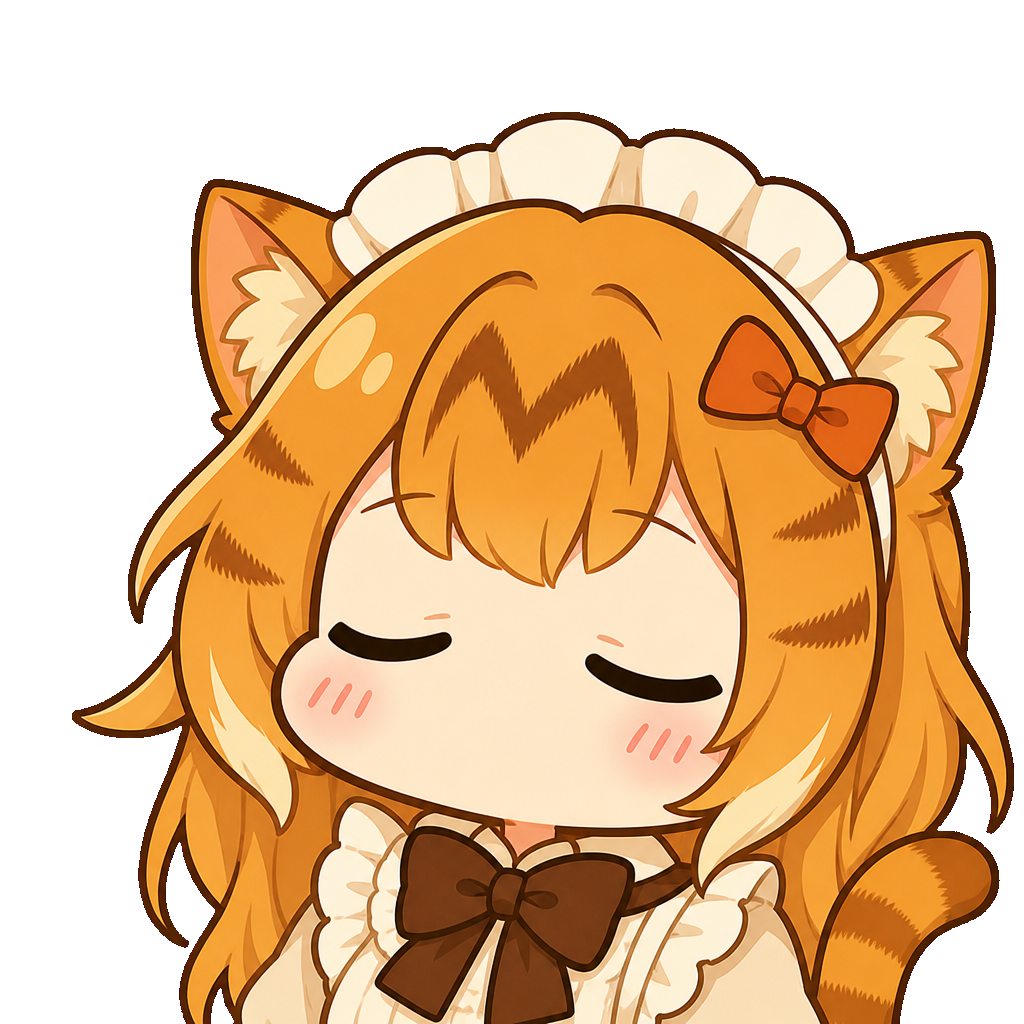
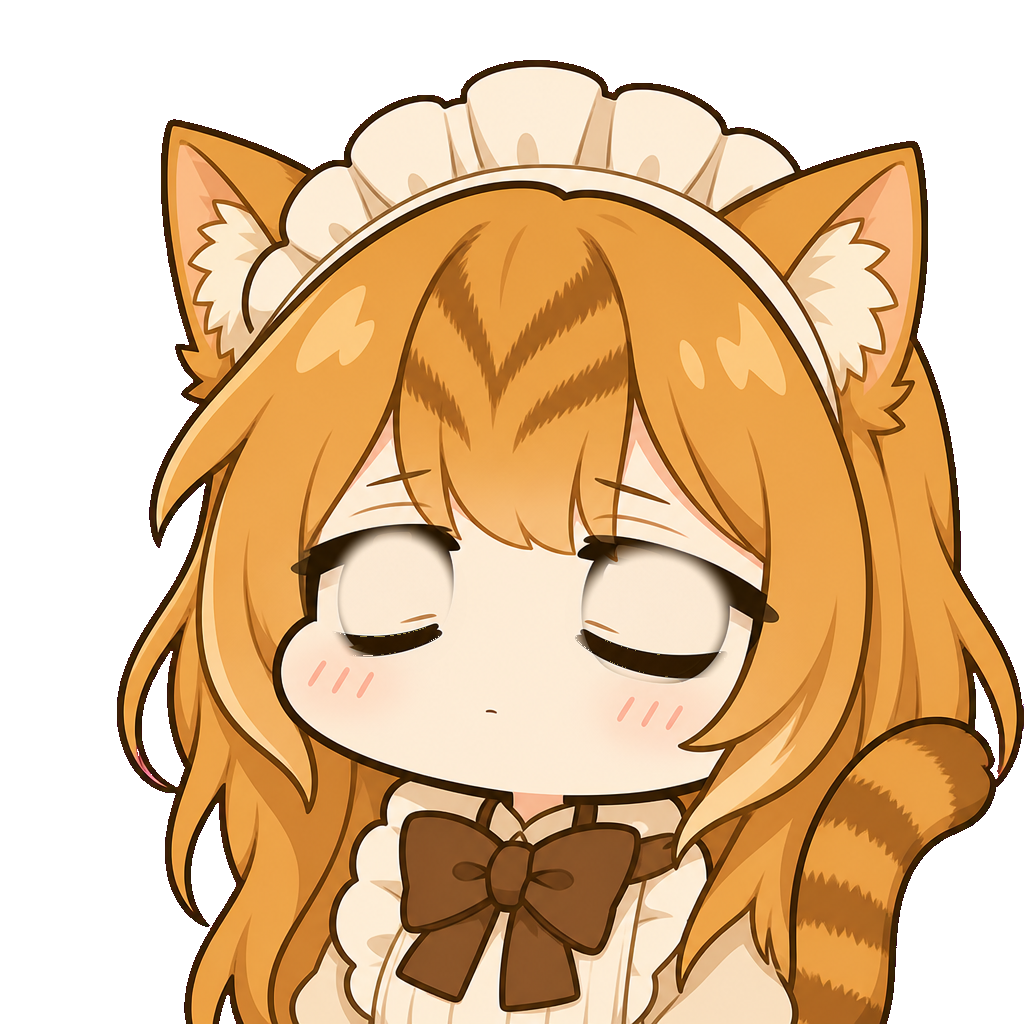
Archive the moe sprites as unused v1 art and make idle blinks use a matching closed-eye frame.
Keep the current lazy faces as the only runtime set, and let blinks, auto poses, and multi-clicks carry emotion lines instead of swapping to a different pose sheet.

diff --git a/web/widget.js b/web/widget.js
@@ -1,5 +1,5 @@
 const STORAGE_KEY = "chestnut-pet";
-const ASSET_VER = "20260827e";
+const ASSET_VER = "20260829a";
 const BUBBLE_STYLE = {
   A: "chestnut-pet-label",
   B: "chestnut-pet-amount",
@@ -12,13 +12,15 @@ const BUBBLE_SVG =
   '<ellipse class="chestnut-b1" cx="352" cy="561" rx="37.5" ry="26" fill="#fff7ea" stroke="#4a2a16" stroke-width="18"/>' +
   '<ellipse class="chestnut-b2" cx="442" cy="646" rx="24.5" ry="18" fill="#fff7ea" stroke="#4a2a16" stroke-width="18"/>' +
   "</svg>";
-const CLICKS_TO_ANGRY = 5;
-const ANGRY_MS = 3000;
+const CLICKS_TO_BURST = 5;
+const CLICK_WINDOW_MS = 1200;
+const BURST_MS = 5000;
 const SHY_MS = 8000;
-const LONELY_MS = 120000;
 const BUBBLE_MS = 5000;
-const CUTE_MIN_MS = 25000;
-const CUTE_VAR_MS = 35000;
+const BLINK_GAPS = [2000, 4000];
+const POSE_MIN_MS = 10000;
+const POSE_VAR_MS = 10000;
+const POSE_HOLD_MS = 5000;
 
 const EXPR = {
   idle: "idle.png",
@@ -41,7 +43,39 @@ const EXPR = {
   thumbsup: "thumbsup.png",
 };
 
-const CUTE_POOL = ["ok", "sad", "quiet", "cheer", "fatfish", "mock", "what", "scared", "greet", "thumbsup"];
+const EMOTION_POOL = [
+  "angry",
+  "shy",
+  "disappointed",
+  "exhausted",
+  "ok",
+  "sad",
+  "quiet",
+  "cheer",
+  "fatfish",
+  "mock",
+  "what",
+  "scared",
+  "greet",
+  "thumbsup",
+];
+
+const EMOTION_LINES = {
+  angry: ["点这么急，本猫要炸毛了。", "再点，尾巴抽你。", "哼，本座还没睡醒。"],
+  shy: ["看够了吗……耳朵有点热。", "别盯着本座的脸。", "被点害羞了，本猫先躲一下。"],
+  disappointed: ["点完就走？本猫还没躺平。", "哦，原来你这么忙。", "本座有点无聊了。"],
+  exhausted: ["点累了，本座先躺平。", "别催，本猫在充电。", "Zzz……再吵就咬你。"],
+  ok: ["行吧，本猫勉强答应。", "嗯，过关了。", "好啦好啦，本座知道了。"],
+  sad: ["罐头呢，本座有点委屈。", "你是不是把本猫忘了。", "今天也可以摸摸头的……"],
+  quiet: ["嘘，本座在偷懒，别出声。", "安静点，耳朵要休息。", "本猫现在不想说话。"],
+  cheer: ["加油……本猫在旁边躺着给你打气。", "写完请投喂。", "本座批准你再写一句。"],
+  fatfish: ["别催，本猫有自己的节奏。", "急什么，罐头又不会跑。", "本座今天的配额用完了。"],
+  mock: ["点得挺勤，字写了吗。", "哼，被本猫看穿了。", "就这？本座还可以更懒。"],
+  what: ["嗯？你点本座干什么。", "发生什么事了，本猫没睡醒。", "哈？再点一遍试试。"],
+  scared: ["啊——点太快了！", "吓到本猫了，爪子都收不回来。", "轻一点，本座心脏小。"],
+  greet: ["嗨……本猫还在呢。", "又见面了，摸摸也行。", "懒洋洋地跟你打个招呼。"],
+  thumbsup: ["不错嘛，本座给你点个爪。", "过得去，赏你一记拇指。", "嗯，本猫认可你一下。"],
+};
 
 export const PET_ASSET_FILES = [
   "Ya1.mp3",
@@ -122,10 +156,14 @@ export function mountChestnutPet(options = {}) {
   let clickLog = [];
   let moodTimer = 0;
   let hoverTimer = 0;
-  let idleTimer = 0;
   let blinkTimer = 0;
-  let cuteTimer = 0;
+  let blinkStepTimer = 0;
   let bubbleTimer = 0;
+  let burstExpr = "";
+  let lastBurstExpr = "";
+  let poseExpr = "";
+  let poseTimer = 0;
+  let cuteTimer = 0;
   let bubbleSwapTimer = 0;
   let bubbleShown = false;
   let bubbleRandomActive = false;
@@ -136,8 +174,7 @@ export function mountChestnutPet(options = {}) {
   Object.keys(EXPR).forEach((name) => preload(name));
   setExpr("idle");
   scheduleBlink();
-  scheduleCute();
-  resetIdle();
+  schedulePose();
   setupAudio();
 
   body.addEventListener("pointerdown", onDown);
@@ -262,10 +299,10 @@ export function mountChestnutPet(options = {}) {
       setExpr(pressing ? "stroking" : saved.manualExpr);
       return;
     }
-    if (mood === "angry") return setExpr("angry");
-    if (mood === "disappointed") return setExpr("disappointed");
+    if (mood === "burst" && burstExpr) return setExpr(burstExpr);
     if (mood === "shy") return setExpr("shy");
     if (pressing) return setExpr("stroking");
+    if (poseExpr) return setExpr(poseExpr);
     setExpr("idle");
   }
 
@@ -281,6 +318,8 @@ export function mountChestnutPet(options = {}) {
     root.classList.add("is-pressing", "is-dragging");
     applyIcon();
     play(pressAudio);
+    cancelBlink();
+    clearPose();
     body.setPointerCapture?.(event.pointerId);
     event.preventDefault();
   }
@@ -306,12 +345,17 @@ export function mountChestnutPet(options = {}) {
     applyIcon();
     play(releaseAudio);
     persist();
-    onActivity();
+    scheduleBlink();
+    schedulePose();
   }
 
   function onClick() {
     if (moved) return;
-    registerClick();
+    if (registerClick()) {
+      enterBurstEmotion();
+      return;
+    }
+    if (mood === "burst") return;
     showBubble();
   }
 
@@ -334,8 +378,11 @@ export function mountChestnutPet(options = {}) {
       if (saved.manualExpr) return;
       mood = "shy";
       cancelBlink();
+      clearPose();
       setExpr("shy");
-      moodTimer = window.setTimeout(exitMood, ANGRY_MS);
+      const line = emotionLine("shy");
+      if (line) say(line);
+      moodTimer = window.setTimeout(exitMood, BURST_MS);
     }, SHY_MS);
   }
 
@@ -345,80 +392,104 @@ export function mountChestnutPet(options = {}) {
 
   function registerClick() {
     const now = Date.now();
-    clickLog = clickLog.filter((t) => now - t < 1200);
+    clickLog = clickLog.filter((t) => now - t < CLICK_WINDOW_MS);
     clickLog.push(now);
-    if (clickLog.length >= CLICKS_TO_ANGRY) enterAngry();
+    return clickLog.length >= CLICKS_TO_BURST;
   }
 
-  function enterAngry() {
+  function enterBurstEmotion() {
     if (saved.manualExpr) return;
-    mood = "angry";
+    const pool = EMOTION_POOL.filter((name) => name !== lastBurstExpr);
+    const pick = pickOne(pool.length ? pool : EMOTION_POOL);
+    lastBurstExpr = pick;
+    burstExpr = pick;
+    mood = "burst";
     clickLog = [];
     cancelBlink();
-    setExpr("angry");
+    clearPose();
+    setExpr(pick);
+    const line = emotionLine(pick);
+    say(line || pickOne(DEFAULT_LINES) || "喵。");
     window.clearTimeout(moodTimer);
-    moodTimer = window.setTimeout(exitMood, ANGRY_MS);
-  }
-
-  function enterLonely() {
-    if (saved.manualExpr || mood === "disappointed") return;
-    mood = "disappointed";
-    cancelBlink();
-    setExpr("disappointed");
+    moodTimer = window.setTimeout(exitMood, BURST_MS);
   }
 
   function exitMood() {
     mood = "normal";
+    burstExpr = "";
     applyIcon();
     scheduleBlink();
-    resetIdle();
+    schedulePose();
   }
 
-  function onActivity() {
-    if (mood === "disappointed") exitMood();
-    else resetIdle();
+  function emotionLine(name) {
+    const lines = EMOTION_LINES[name];
+    if (!lines || !lines.length) return "";
+    return pickOne(lines);
   }
 
-  function resetIdle() {
-    window.clearTimeout(idleTimer);
-    idleTimer = window.setTimeout(enterLonely, LONELY_MS);
+  function canIdleAnimate() {
+    return mood === "normal" && !pressing && !saved.manualExpr;
+  }
+
+  function canBlink() {
+    return canIdleAnimate() && !poseExpr;
   }
 
   function scheduleBlink() {
     cancelBlink();
-    if (mood !== "normal" || saved.manualExpr) return;
+    if (!canBlink()) return;
     blinkTimer = window.setTimeout(() => {
-      if (mood !== "normal" || pressing || saved.manualExpr) {
+      if (!canBlink()) {
         scheduleBlink();
         return;
       }
-      setExpr("half_closed_eyes");
-      window.setTimeout(() => {
-        if (mood === "normal" && !pressing) setExpr("close_eyes");
-      }, 130);
-      window.setTimeout(() => {
-        if (mood === "normal" && !pressing) applyIcon();
-      }, 280);
-      scheduleBlink();
-    }, 3500 + Math.random() * 4500);
+      setExpr("close_eyes");
+      blinkStepTimer = window.setTimeout(() => {
+        if (!canBlink()) return;
+        applyIcon();
+        scheduleBlink();
+      }, 180);
+    }, pickOne(BLINK_GAPS));
   }
 
   function cancelBlink() {
     window.clearTimeout(blinkTimer);
+    window.clearTimeout(blinkStepTimer);
+    blinkTimer = 0;
+    blinkStepTimer = 0;
   }
 
-  function scheduleCute() {
+  function clearPose() {
+    window.clearTimeout(poseTimer);
+    poseTimer = 0;
+    poseExpr = "";
+  }
+
+  function schedulePose() {
     window.clearTimeout(cuteTimer);
+    if (!canIdleAnimate()) return;
     cuteTimer = window.setTimeout(() => {
-      if (mood === "normal" && !pressing && !saved.manualExpr) {
-        const pick = CUTE_POOL[Math.floor(Math.random() * CUTE_POOL.length)];
-        setExpr(pick);
-        window.setTimeout(() => {
-          if (mood === "normal" && !pressing) applyIcon();
-        }, 4000);
+      if (!canIdleAnimate() || poseExpr) {
+        schedulePose();
+        return;
       }
-      scheduleCute();
-    }, CUTE_MIN_MS + Math.random() * CUTE_VAR_MS);
+      const pool = EMOTION_POOL.filter((name) => name !== lastBurstExpr);
+      const pick = pickOne(pool.length ? pool : EMOTION_POOL);
+      lastBurstExpr = pick;
+      poseExpr = pick;
+      cancelBlink();
+      setExpr(pick);
+      const line = emotionLine(pick);
+      if (line) say(line);
+      poseTimer = window.setTimeout(() => {
+        poseExpr = "";
+        poseTimer = 0;
+        if (canIdleAnimate()) applyIcon();
+        scheduleBlink();
+        schedulePose();
+      }, POSE_HOLD_MS);
+    }, POSE_MIN_MS + Math.random() * POSE_VAR_MS);
   }
 
   function defaultBubbleLines() {
@@ -588,6 +659,7 @@ export function mountChestnutPet(options = {}) {
       persist();
       applyIcon();
       scheduleBlink();
+      schedulePose();
     });
     box.querySelector('[data-field="sound"]').addEventListener("change", (event) => {
       state.sound = event.target.checked;
@@ -635,8 +707,9 @@ export function mountChestnutPet(options = {}) {
     destroy() {
       window.clearTimeout(moodTimer);
       window.clearTimeout(hoverTimer);
-      window.clearTimeout(idleTimer);
       window.clearTimeout(blinkTimer);
+      window.clearTimeout(blinkStepTimer);
+      window.clearTimeout(poseTimer);
       window.clearTimeout(cuteTimer);
       window.clearTimeout(bubbleTimer);
       window.clearTimeout(bubbleSwapTimer);

diff --git a/README.md b/README.md
@@ -1,6 +1,6 @@
 # ChestnutCat
 
-右下角的板栗猫娘桌宠。形象来自家猫板栗的照片，交互参考 [dsh-whale-widget-plus](https://github.com/louke6572/dsh-whale-widget-plus)（MIT）：点、连点、悬停、失落、揉头、台词和菜单。
+右下角的板栗猫娘桌宠。形象来自家猫板栗的照片，交互参考 [dsh-whale-widget-plus](https://github.com/louke6572/dsh-whale-widget-plus)（MIT）：点、连点情绪、揉头、台词和菜单。
 
 ## 插件包
 
@@ -22,17 +22,17 @@ python -m http.server 4173
 
 打开 http://127.0.0.1:4173/web/
 
-- 点击：随机台词
-- 1.2 秒内连点 5 次：生气
+- 待机：每隔 2 秒或 4 秒眨眼；偶尔自动换情绪图，有台词则冒泡
+- 单击：打开字数气泡；再点气泡看台词
+- 1.2 秒内连点超过 5 次：随机一张情绪图，并冒出对应的慵懒台词
 - 悬停约 8 秒：害羞
-- 2 分钟不理：失落
 - 按住：揉头 + 压扁
 - 拖到左半边：水平翻转
 - 右上角菜单：大小、锁定表情、自定义台词、音效
 
 ## 表情贴图
 
-默认贴图在 `assets/expr/`（小鲸鱼脸部描改：半垂眼、慵懒）。上一版更精致的猫娘在 `assets/expr-moe/`，保留不删。
+默认贴图在 `assets/expr/`（小鲸鱼脸部描改：半垂眼、慵懒）。上一版更精致的猫娘归档在 `assets/expr-v1/`，只作来时路保存，预览和打包都不使用。
 
 表情对齐鲸鱼挂件第一版：
 
